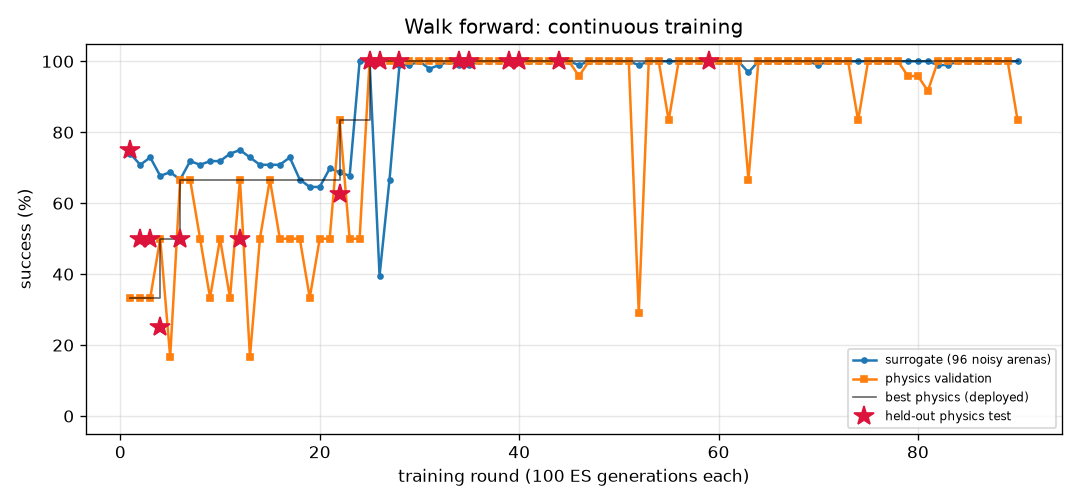
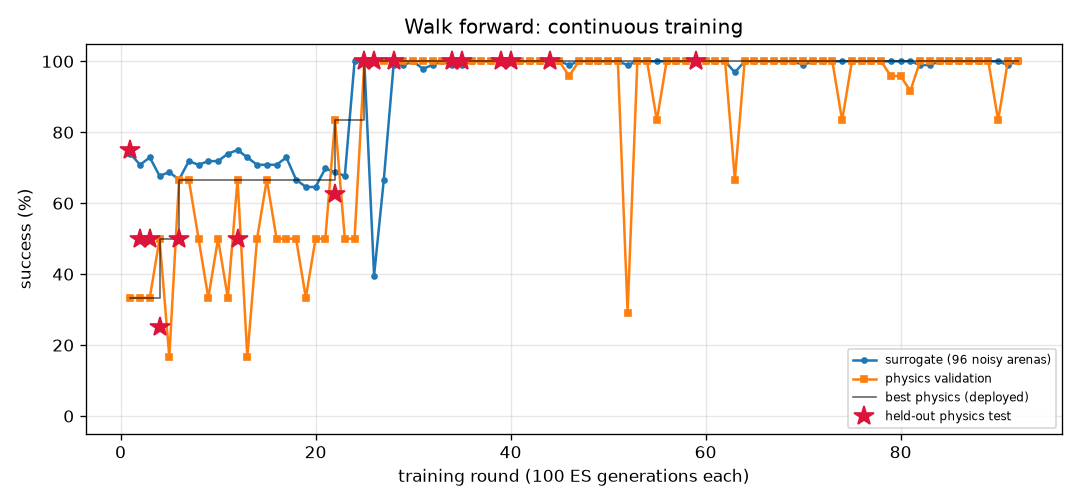
FlyLab: continuous training progress
- walk_forward: optimal, physics val 100% of 24, round 92
- turn: optimal, physics val 100% of 24, round 329
- goto: optimal, physics val 100% of 24, round 86
- odor_seek: optimal, physics val 100% of 24, round 93
- odor_avoid: optimal, physics val 100% of 24, round 417
- light_seek: optimal, physics val 100% of 24, round 275
- light_avoid: optimal, physics val 100% of 24, round 196

diff --git a/projects/09_flylab/training/walk_forward/REPORT.md b/projects/09_flylab/training/walk_forward/REPORT.md
@@ -1,14 +1,14 @@
 # Walk forward (`walk_forward`) — training report
 
-*Auto-generated by `train_brains.py`, last updated 2026-10-11T20:58:50.*
+*Auto-generated by `train_brains.py`, last updated 2026-10-11T21:31:47.*
 
 ![curve](curve.png)
 
 | | |
 |---|---|
-| rounds | 90 |
-| ES generations | 9000 |
-| physics runs | 2110 |
+| rounds | 92 |
+| ES generations | 9200 |
+| physics runs | 2158 |
 | status | **optimal** |
 | best brain | round 59: physics validation **100%** on 24 arenas, surrogate 100% |
 | held-out physics test | **100%** on 32 unseen arenas (95% CI 89%-100%) (errors: [0.22, 0.23, 0.28, 0.29, 0.23, 0.21, 0.23, 0.3, 0.3, 0.29, 0.27, 0.23, 0.29, 0.29, 0.21, 0.23, 0.23, 0.22, 0.22, 0.25, 0.28, 0.29, 0.23, 0.21, 0.22, 0.23, 0.3, 0.22, 0.23, 0.24, 0.3, 0.22]) |
@@ -17,8 +17,6 @@ Physics error per arena: mm from target at the end (< 1.5 and standing still = s
 
 | round | level | gens | sigma | surrogate | physics val | val errors | test | note |
 |---:|---:|---:|---:|---:|---:|---|---:|---|
-| 51 | 3 | 5100 | 0.024 | 100% | 100% | [0.38, 0.44, 0.36, 0.38, 0.44, 0.37, 0.45, 0.36, 0.45, 0.43, 0.36, 0.4, 0.36, 0.37, 0.4, 0.4, 0.37, 0.43, 0.36, 0.42, 0.36, 0.42, 0.39, 0.36] |  |  |
-| 52 | 3 | 5200 | 0.024 | 99% | 29% | [0.14, 0.04, 1.3, 1.45, 1.09, 0.12, 0.06, 0.11, 0.06, 0.15, 0.12, 0.14, 0.35, 1.16, 0.08, 0.21, 0.64, 0.65, 0.45, 0.01, 0.34, 0.07, 0.32, 0.41] |  | restart from best |
 | 53 | 3 | 5300 | 0.024 | 100% | 100% | [0.24, 0.34, 0.31, 0.25, 0.33, 0.32, 0.36, 0.28, 0.34, 0.4, 0.32, 0.41, 0.29, 0.32, 0.26, 0.41, 0.26, 0.31, 0.27, 0.27, 0.27, 0.4, 0.41, 0.28] |  |  |
 | 54 | 3 | 5400 | 0.024 | 100% | 100% | [0.17, 0.25, 0.17, 0.17, 0.25, 0.18, 0.26, 0.15, 0.25, 0.26, 0.18, 0.25, 0.15, 0.18, 0.19, 0.25, 0.16, 0.24, 0.15, 0.2, 0.15, 0.26, 0.24, 0.15] |  |  |
 | 55 | 3 | 5500 | 0.024 | 100% | 83% | [0.23, 0.3, 0.06, 0.23, 0.29, 0.07, 0.3, 0.1, 0.3, 0.08, 0.06, 0.08, 0.21, 0.03, 0.26, 0.03, 0.15, 0.29, 0.11, 0.27, 0.52, 0.09, 0.08, 0.1] |  |  |
@@ -57,3 +55,5 @@ Physics error per arena: mm from target at the end (< 1.5 and standing still = s
 | 88 | 3 | 8800 | 0.024 | 100% | 100% | [0.08, 0.31, 0.06, 0.08, 0.31, 0.16, 0.31, 0.07, 0.32, 0.1, 0.06, 0.12, 0.07, 0.06, 0.26, 0.1, 0.08, 0.3, 0.08, 0.28, 0.07, 0.09, 0.24, 0.09] |  |  |
 | 89 | 3 | 8900 | 0.024 | 100% | 100% | [0.31, 0.34, 0.27, 0.31, 0.33, 0.26, 0.34, 0.27, 0.33, 0.33, 0.27, 0.31, 0.27, 0.27, 0.32, 0.32, 0.29, 0.35, 0.27, 0.33, 0.29, 0.32, 0.3, 0.27] |  |  |
 | 90 | 3 | 9000 | 0.024 | 100% | 83% | [0.06, 0.17, 0.17, 0.06, 0.17, 0.15, 0.19, 0.21, 0.12, 0.32, 0.09, 0.38, 0.03, 0.32, 0.07, 0.36, 0.12, 0.13, 0.04, 0.14, 0.05, 0.34, 0.4, 0.03] |  |  |
+| 91 | 3 | 9100 | 0.024 | 99% | 100% | [0.19, 0.31, 0.06, 0.12, 0.3, 0.12, 0.27, 0.13, 0.3, 0.35, 0.06, 0.31, 0.07, 0.05, 0.2, 0.29, 0.13, 0.24, 0.11, 0.17, 0.08, 0.34, 0.32, 0.1] |  | restart from best |
+| 92 | 3 | 9200 | 0.024 | 100% | 100% | [0.28, 0.39, 0.33, 0.28, 0.39, 0.33, 0.39, 0.3, 0.39, 0.38, 0.32, 0.35, 0.31, 0.32, 0.31, 0.37, 0.28, 0.37, 0.3, 0.33, 0.3, 0.38, 0.35, 0.31] |  |  |

diff --git a/projects/09_flylab/training/turn/REPORT.md b/projects/09_flylab/training/turn/REPORT.md
@@ -1,14 +1,14 @@
 # Turn in place (`turn`) — training report
 
-*Auto-generated by `train_brains.py`, last updated 2026-10-11T18:12:02.*
+*Auto-generated by `train_brains.py`, last updated 2026-10-11T21:39:36.*
 
 ![curve](curve.png)
 
 | | |
 |---|---|
-| rounds | 328 |
-| ES generations | 32800 |
-| physics runs | 8118 |
+| rounds | 329 |
+| ES generations | 32900 |
+| physics runs | 8142 |
 | status | **optimal** |
 | best brain | round 80: physics validation **100%** on 24 arenas, surrogate 100% |
 | held-out physics test | **97%** on 32 unseen arenas (95% CI 84%-99%) (errors: [1.6, 3.3, 6.3, 3.7, 1.1, 0.4, 2.4, 2.9, 0.1, 2.6, 0.5, 2.7, 1.5, 3.1, 4.5, 0.2, 0.5, 1.1, 2.0, 4.4, 2.8, 3.2, 0.3, 2.2, 0.5, 3.0, 0.3, 5.4, 0.4, 1.0, 4.7, 10.7]) |
@@ -17,7 +17,6 @@ Physics error per arena: deg from target heading (< 20 = success).
 
 | round | level | gens | sigma | surrogate | physics val | val errors | test | note |
 |---:|---:|---:|---:|---:|---:|---|---:|---|
-| 289 | 3 | 28900 | 0.024 | 99% | 100% | [4.5, 7.6, 5.1, 1.2, 1.3, 1.2, 1.1, 1.1, 2.9, 2.0, 2.5, 1.1, 4.2, 3.4, 1.1, 2.5, 1.1, 2.6, 2.5, 0.2, 5.5, 1.5, 4.0, 0.5] |  |  |
 | 290 | 3 | 29000 | 0.025 | 99% | 79% | [3.2, 1.5, 6.7, 2.1, 4.0, 2.4, 6.6, 6.9, 5.7, 1.5, 6.4, 1.4, 1.5, 0.9, 4.3, 3.1, 1.5, 3.1, 16.2, 1.4, 5.4, 4.4, 5.9, 9.3] |  |  |
 | 291 | 3 | 29100 | 0.025 | 99% | 96% | [6.2, 8.5, 0.5, 3.6, 2.3, 2.1, 3.3, 3.2, 3.2, 0.2, 1.6, 0.8, 3.4, 2.4, 2.0, 2.3, 0.9, 1.0, 2.4, 0.2, 5.6, 0.3, 3.6, 1.5] |  |  |
 | 292 | 3 | 29200 | 0.025 | 100% | 71% | [1.5, 2.3, 5.6, 2.0, 1.7, 1.1, 5.8, 9.7, 5.3, 0.7, 4.8, 2.2, 0.3, 0.1, 5.0, 1.0, 2.0, 3.4, 3.8, 1.1, 1.9, 0.1, 6.6, 7.9] |  | restart from best |
@@ -57,3 +56,4 @@ Physics error per arena: deg from target heading (< 20 = success).
 | 326 | 3 | 32600 | 0.025 | 97% | 88% | [9.5, 6.6, 1.2, 4.0, 3.7, 3.6, 3.5, 0.9, 5.1, 0.2, 2.9, 2.0, 3.0, 2.2, 3.1, 1.8, 0.9, 1.0, 1.3, 0.1, 7.5, 0.9, 5.1, 0.7] |  |  |
 | 327 | 3 | 32700 | 0.026 | 99% | 79% | [4.9, 5.7, 7.2, 2.0, 3.5, 2.5, 5.5, 1.4, 5.2, 1.2, 4.8, 0.7, 1.0, 3.6, 3.5, 1.9, 1.0, 1.3, 1.2, 1.9, 4.7, 1.0, 4.6, 6.7] |  |  |
 | 328 | 3 | 32800 | 0.025 | 98% | 75% | [8.0, 9.5, 1.7, 1.3, 2.4, 0.0, 2.7, 3.8, 2.2, 0.3, 2.8, 2.4, 0.7, 3.0, 2.4, 1.7, 2.5, 0.2, 1.8, 1.1, 8.4, 2.4, 3.9, 2.4] |  | restart from best |
+| 329 | 3 | 32900 | 0.024 | 100% | 83% | [0.1, 2.1, 5.1, 1.9, 14.1, 2.3, 4.3, 8.0, 6.7, 0.6, 5.5, 0.0, 2.7, 1.1, 4.9, 3.3, 0.2, 2.0, 0.2, 2.3, 6.1, 1.2, 5.9, 1.4] |  |  |

diff --git a/projects/09_flylab/training/TRAINING.md b/projects/09_flylab/training/TRAINING.md
@@ -1,13 +1,13 @@
 # FlyLab brains — continuous training log
 
-*Auto-generated by `train_brains.py`, last updated 2026-10-11T21:15:26.*
+*Auto-generated by `train_brains.py`, last updated 2026-10-11T21:39:36.*
 
 Every skill has its own brain and its own training process: surrogate ES rounds, physics validation in MuJoCo, keep-the-best selection, and a held-out physics test that is never used for selection. See each skill's report for its full round-by-round history. Mastery is progressive: passing a level (100% physics validation, >=95% surrogate) doubles the validation and test arena sets; a brain is **optimal** once it holds up at level 3 (>=95% of 24 validation arenas) AND scores >=90% on the 32 held-out test arenas. Test columns show 95% Wilson confidence intervals.
 
 | skill | rounds | ES generations | physics runs | surrogate | physics val | **physics test** | status |
 |---|---:|---:|---:|---:|---:|---:|---|
-| [Walk forward](walk_forward/REPORT.md) | 90 | 9000 | 2110 | 100% | 100% of 24 | 100% of 32 (CI 89-100%) | **optimal** |
-| [Turn in place](turn/REPORT.md) | 328 | 32800 | 8118 | 100% | 100% of 24 | 97% of 32 (CI 84-99%) | **optimal** |
+| [Walk forward](walk_forward/REPORT.md) | 92 | 9200 | 2158 | 100% | 100% of 24 | 100% of 32 (CI 89-100%) | **optimal** |
+| [Turn in place](turn/REPORT.md) | 329 | 32900 | 8142 | 100% | 100% of 24 | 97% of 32 (CI 84-99%) | **optimal** |
 | [Go to a location](goto/REPORT.md) | 86 | 8600 | 1950 | 100% | 100% of 24 | 100% of 32 (CI 89-100%) | **optimal** |
 | [Find food by smell](odor_seek/REPORT.md) | 93 | 9300 | 1534 | 100% | 100% of 24 | 100% of 32 (CI 89-100%) | **optimal** |
 | [Escape a bad smell](odor_avoid/REPORT.md) | 417 | 41700 | 7314 | 97% | 100% of 24 | 97% of 32 (CI 84-99%) | **optimal** |
